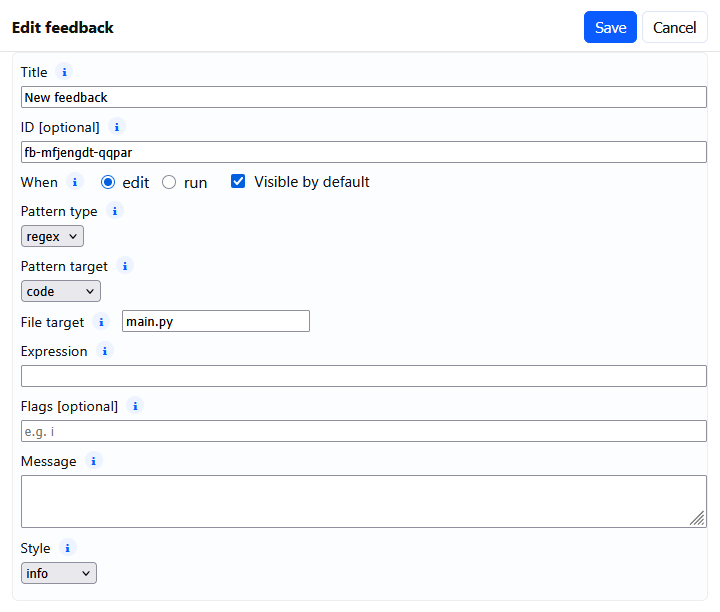
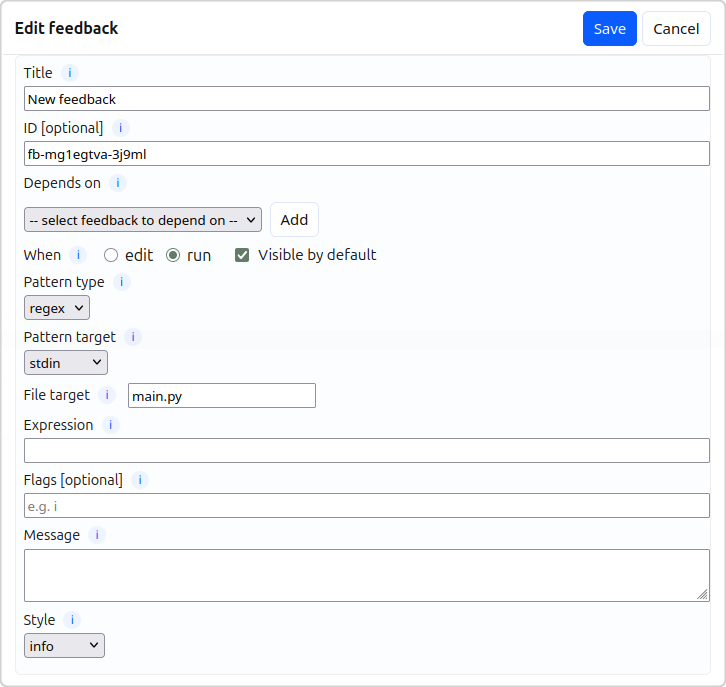
docs: added authoring feedback docs, updated screenshots

diff --git a/docs/author/feedback_overview.md b/docs/author/feedback_overview.md
@@ -1,0 +1,31 @@
+# Feedback Overview
+
+Feedback is meant to be rules that are validated as the user writes code.
+This should be guiding information, rather than a checklist, to avoid
+being a crutch and to encourage the user to think about their code, not
+ticking off boxes in a list of instructions.
+
+![The feedback panel](img/author_feedback_panel.png)
+
+Feedback rules have a number of configuration settings:
+- **Title** - What the user sees in Feedback panel of the interface
+- **ID** - Generated internal identifier, shouldn't need to be changed
+- **When** - When the rule is evaluated. Most rules are "edit time" and so
+are evaluated as the student is writing their code. "run time" rules are
+more useful for checking suggested input values or for giving feedback on
+errors
+- **Visible by defualt** - Whether to show the rule if it hasn't yet been
+triggered
+- **Pattern type** - How the rule is checked. See the docs for [string](feedback_string.md),
+[regular expression](feedback_regex.md), and [abstract syntax tree (AST)](ast_rules.md) types
+- **Depends on** - Rule dependency can add other feedback items to the conditions for triggering this one
+- **Pattern target** - Only for string and regex rules, what to pattern match against. The list
+changes depending on whether the rule is for edit time or run time
+- **File target** - Only for string and regex rules edit time rules, which file to check against
+- **Message** - [Optional] What message to show to the user when the rule triggers. This will appear
+below the *Title* of the feedback rule
+- **Style** - Visual style of the feedback in the UI. Affects colour accent and icon on match
+
+**Visual feedback styles:**
+
+![Feedback styles](img/feedback_msg_optional.png)

diff --git a/docs/author/feedback_string.md b/docs/author/feedback_string.md
@@ -1,1 +1,27 @@
 # String Feedback
+
+String feedback is the simplest of the feedback rule types, checking whether
+the specified string occurs anywhere in the specified target. Potential uses
+could be:
+- Checking whether specific text is used in the code
+- Checking whether a particular file name was created in the user workspace
+
+String feedback (like any pattern feedback) is relatively brittle, and may
+give false positives or negatives depending on how the code is written, such
+as by the user having the expected text in commented out code.
+
+**Example:**  
+This rule set up a simple text feedback rule to look for the text `Hello, World!`
+in the user's `main.py` file.
+
+![Hello world string rule](img/feedback_hello_world_string.png)
+
+In the following image you can see that they have done what was expected by
+the author and `print`ed the string:
+
+![Hello world golden path](img/feedback_hello_world_correct.png)
+
+However, in this image you can see that they have put the text in a comment
+and the feedback pattern still registers the rule as correct:
+
+![Hello world commented](img/feedback_hello_world_comment.png)

diff --git a/docs/author/basic_interface.md b/docs/author/basic_interface.md
@@ -113,6 +113,8 @@ it is provided with either a visible title and a hidden triggered message
 for explicit guidance, or as a hidden title and triggered message that is
 more of a just-in-time approach.
 
+[Read a broad overview of feedback and how it works here](feedback_overview.md)
+
 Find out about creating and configuring different types of feedback here:
 
 - [Building string-based feedback](feedback_string.md)
